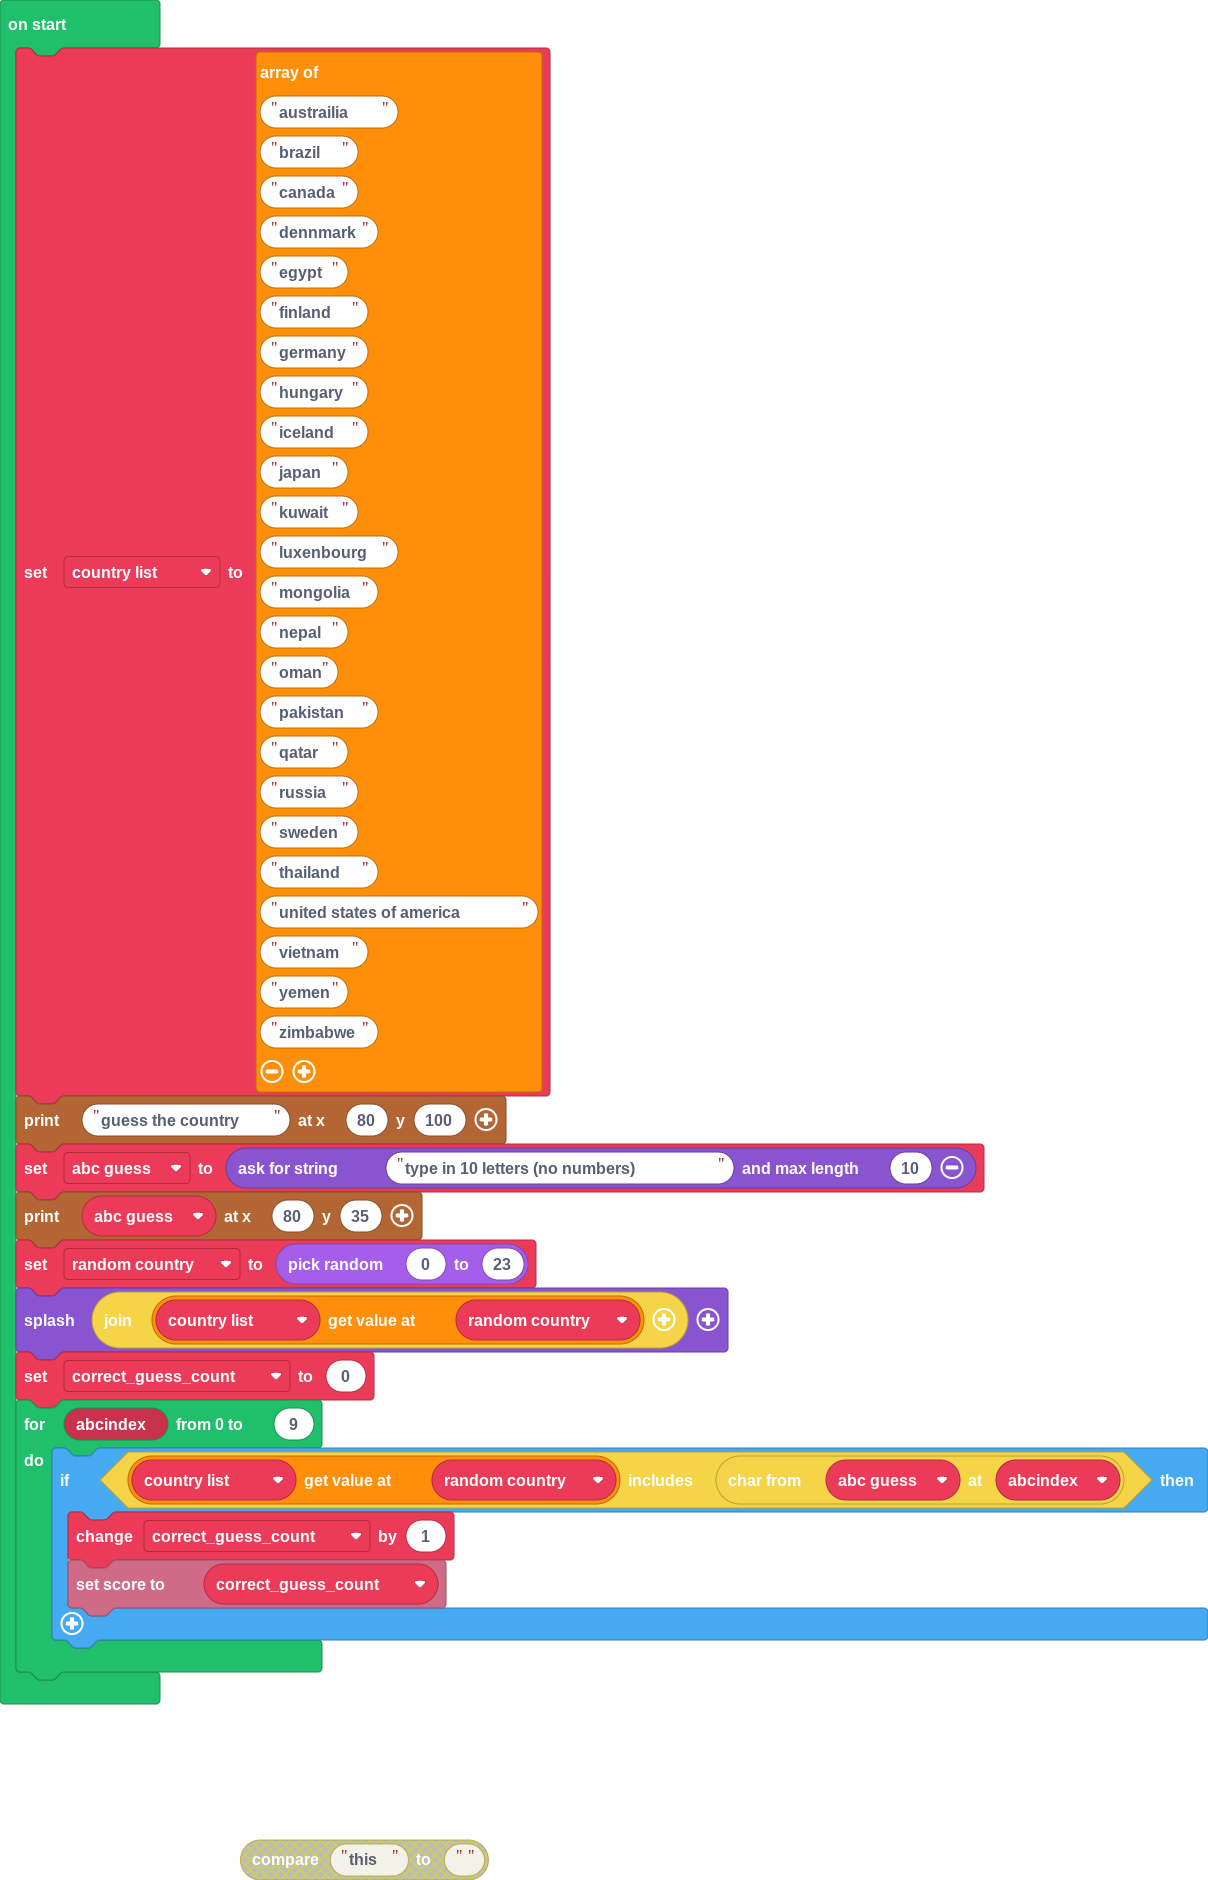
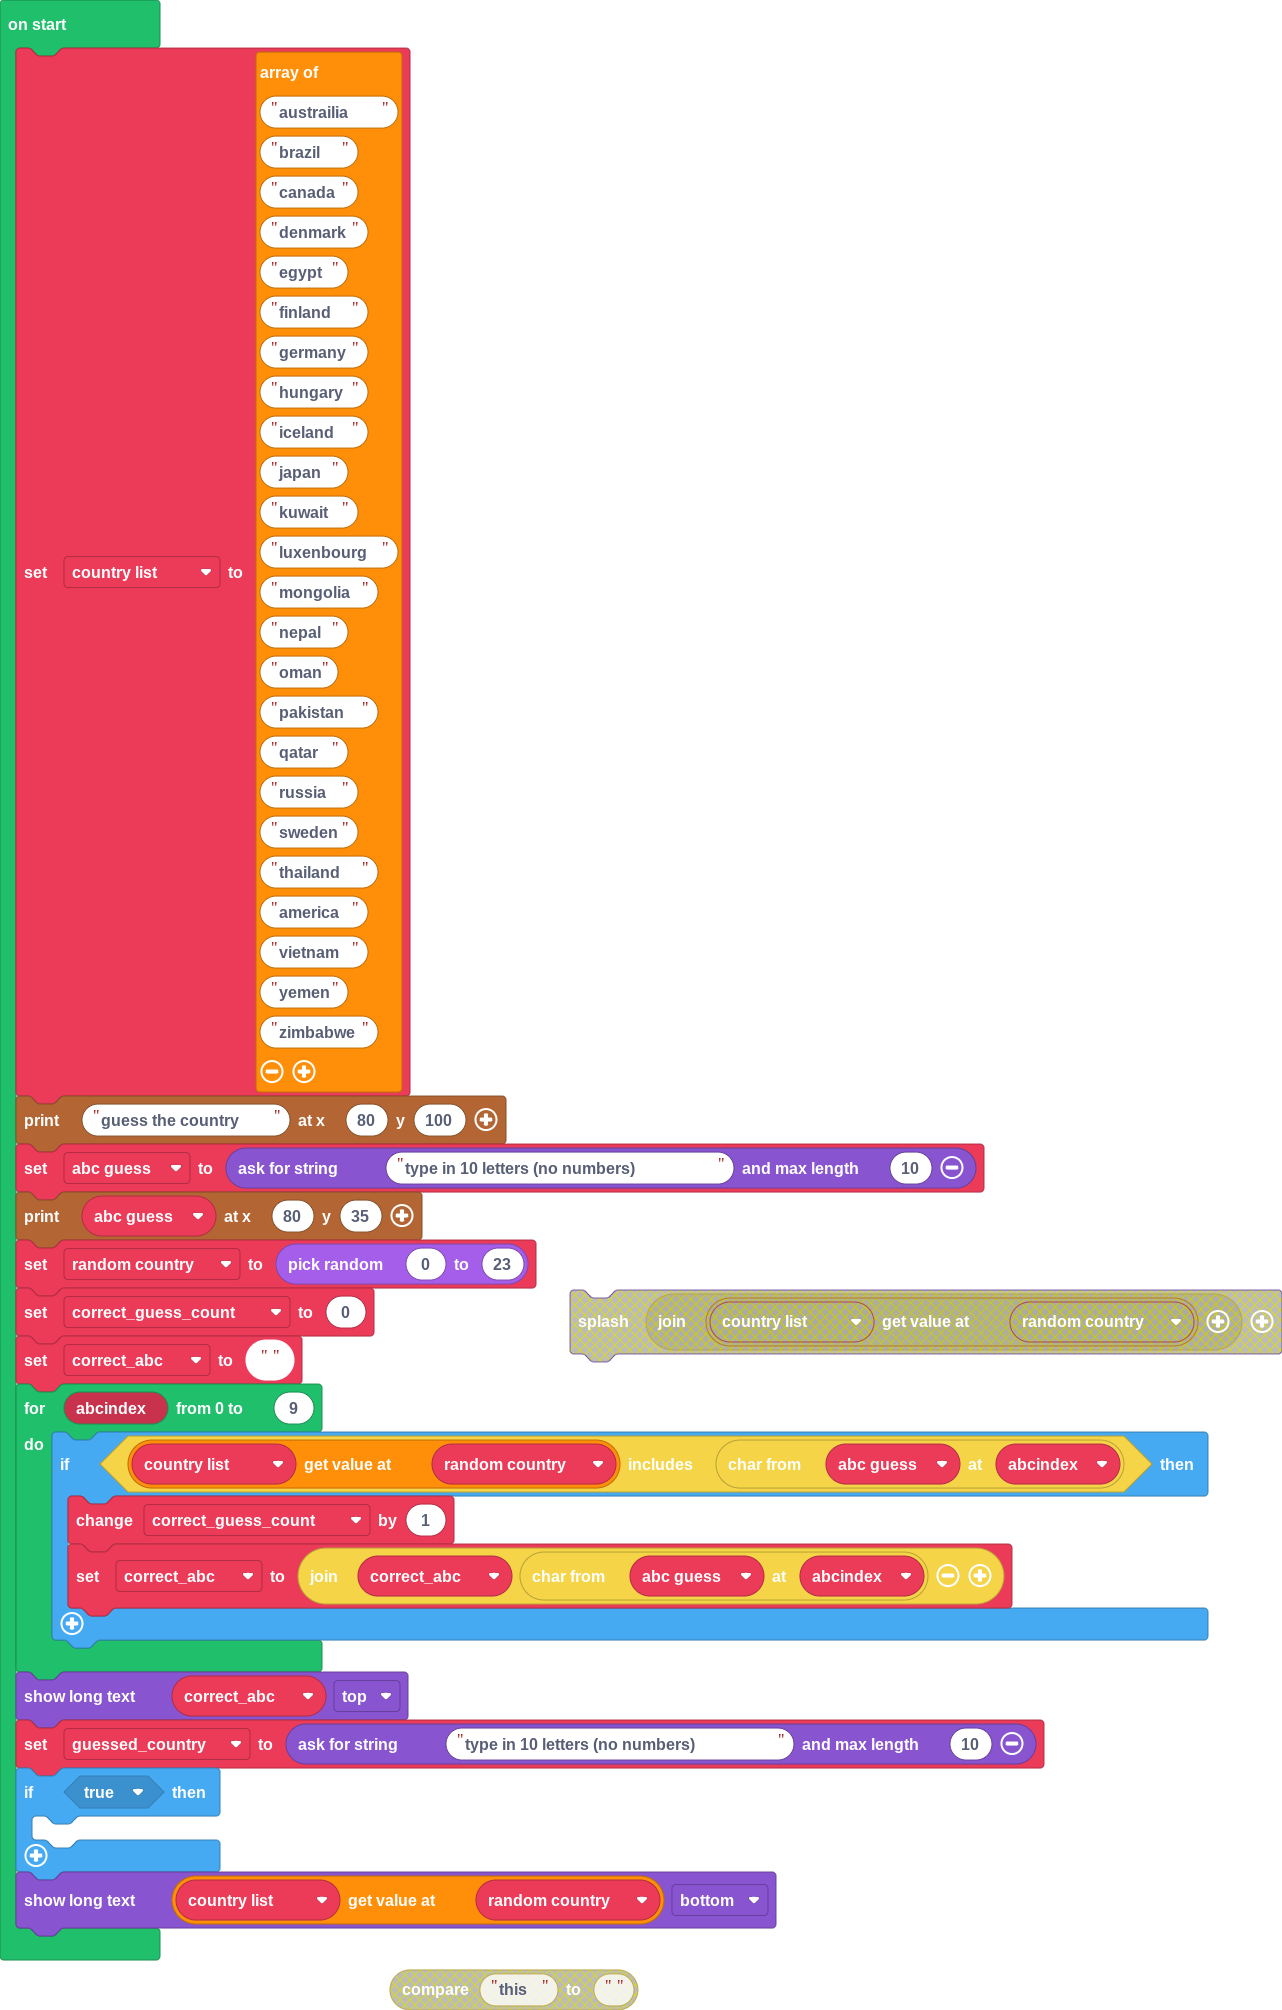
Update main.blocks, main.ts

diff --git a/main.ts b/main.ts
@@ -2,7 +2,7 @@ let country_list = [
 "austrailia",
 "brazil",
 "canada",
-"dennmark",
+"denmark",
 "egypt",
 "finland",
 "germany",
@@ -19,7 +19,7 @@ let country_list = [
 "russia",
 "sweden",
 "thailand",
-"united states of america",
+"america",
 "vietnam",
 "yemen",
 "zimbabwe"
@@ -28,11 +28,17 @@ story.printText("guess the country", 80, 100)
 let abc_guess = game.askForString("type in 10 letters (no numbers)", 10)
 story.printText(abc_guess, 80, 35)
 let random_country = randint(0, 23)
-game.splash("" + country_list[random_country])
 let correct_guess_count = 0
+let correct_abc = ""
 for (let abcindex = 0; abcindex <= 9; abcindex++) {
     if (country_list[random_country].includes(abc_guess.charAt(abcindex))) {
         correct_guess_count += 1
-        info.setScore(correct_guess_count)
+        correct_abc = "" + correct_abc + abc_guess.charAt(abcindex)
     }
 }
+game.showLongText(correct_abc, DialogLayout.Top)
+let guessed_country = game.askForString("type in 10 letters (no numbers)", 10)
+if (true) {
+	
+}
+game.showLongText(country_list[random_country], DialogLayout.Bottom)
